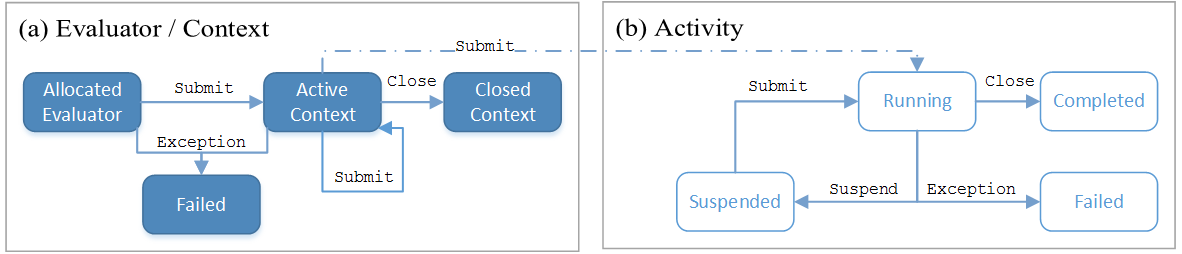
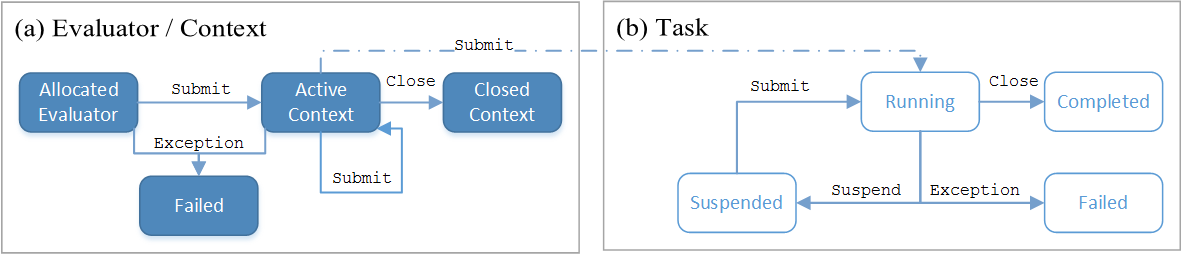
[REEF-444] Replace "Activity" with "Task" on http://reef.incubator.apache.org/introduction.html
This addressed the issue by
  * Updating images from https://cwiki.apache.org/confluence/display/REEF/Website+Artifacts
  * Replacing text occurrences

JIRA:
  [REEF-444](https://issues.apache.org/jira/browse/REEF-444)

Pull Request:
  This closes #361

diff --git a/website/src/site/markdown/introduction.md b/website/src/site/markdown/introduction.md
@@ -40,7 +40,7 @@ Below, we describe the client facing interfaces to these components. The core RE
 
 <br></br>
 
-The above figure presents the REEF components in terms of a running application, which is written in terms of a `Driver` and task-specific `Task` modules. The application code is packaged and submitted to a REEF client API, which in turn submits a REEF-AM configuration to YARN. The REEF-AM contains a runtime for launching the `Driver` and client libraries for requesting Evaluators and launching `Activities`. When a request for `Evaluators` is made, the REEF-AM negotiates containers with the YARN-RM and launches an `Evaluator` runtime on the YARN-NM that hosts the allocated container. In turn, the `Driver` is given an `Evaluator` object reference, which it uses to submit an `Task`. The `Driver` is also given a `Task` object reference, which it may use to send messages to the `Task` running in the `Evaluator`. The REEF layer implements these communication channels and encodes the computational life-cycle as state transitions, which are surfaced to the `Driver` in the form of Rx messages.
+The above figure presents the REEF components in terms of a running application, which is written in terms of a `Driver` and task-specific `Task` modules. The application code is packaged and submitted to a REEF client API, which in turn submits a REEF-AM configuration to YARN. The REEF-AM contains a runtime for launching the `Driver` and client libraries for requesting `Evaluators` and launching `Tasks`. When a request for `Evaluators` is made, the REEF-AM negotiates containers with the YARN-RM and launches an `Evaluator` runtime on the YARN-NM that hosts the allocated container. In turn, the `Driver` is given an `Evaluator` object reference, which it uses to submit an `Task`. The `Driver` is also given a `Task` object reference, which it may use to send messages to the `Task` running in the `Evaluator`. The REEF layer implements these communication channels and encodes the computational life-cycle as state transitions, which are surfaced to the `Driver` in the form of Rx messages.
 
 ###Computational Life-Cycle
 
@@ -50,14 +50,14 @@ The above figure presents the REEF components in terms of a running application,
       <img src="states-horizontal.png"></img>
 </div>
 
-*States of `Evaluator`, `Contexts`, and `Activities`*
+*States of `Evaluator`, `Contexts`, and `Tasks`*
 
 <br></br>
 
-The Figure above describes the state transitions for (a) `Evaluator` and `Context` and (b) `Task` components. Each state transition is associated with an object reference that is surfaced to the `Driver` in an Rx-style interface. For instance, when the YARN-RM notifies the REEF-AM of an allocated container, the `Driver` is given an `AllocatedEvaluator` object; containing methods for adding configurations (i.e., for data services, see below) and file resources, and submit methods that bootstraps the `Evaluator` runtime on the YARN-NM. When an `Evaluator` bootstrap successfully completes, the `Driver` is given an `ActiveContext` object, which can be used to launch `Activities` or to initiate a close, which triggers a shutdown event at the `Evaluator` runtime and a subsequent container release at the YARN-RM. If at any point a failure occurs, the `Driver` is passed a `FailedEvaluator` object; containing an exception trace when possible.
+The Figure above describes the state transitions for (a) `Evaluator` and `Context` and (b) `Task` components. Each state transition is associated with an object reference that is surfaced to the `Driver` in an Rx-style interface. For instance, when the YARN-RM notifies the REEF-AM of an allocated container, the `Driver` is given an `AllocatedEvaluator` object; containing methods for adding configurations (i.e., for data services, see below) and file resources, and submit methods that bootstraps the `Evaluator` runtime on the YARN-NM. When an `Evaluator` bootstrap successfully completes, the `Driver` is given an `ActiveContext` object, which can be used to launch `Tasks` or to initiate a close, which triggers a shutdown event at the `Evaluator` runtime and a subsequent container release at the YARN-RM. If at any point a failure occurs, the `Driver` is passed a `FailedEvaluator` object; containing an exception trace when possible.
 
-Recall that the `Driver` launches a `Task` on a submit method call from the `ActiveContext` reference. This state transition is denoted in the Figure above by the edge labeled submit; spanning the two state machines. The REEF-AM passes a `RunningActivity` object to the `Driver` after receiving confirmation of a successful `Task` start or resume. The `Driver` may use the `RunningActivity` reference to close or suspend the execution; triggering a `CompletedActivity` or `SuspendedActivity` object reference to the `Driver`. The `SuspendedActivity` object contains a memento used to resume the execution on some (possibly alternative) `ActiveContext`. Exceptions during the `Task` execution are surfaced to the `Driver` in the form of a `FailedActivity`, which contains the actual exception object.
+Recall that the `Driver` launches a `Task` on a submit method call from the `ActiveContext` reference. This state transition is denoted in the Figure above by the edge labeled submit; spanning the two state machines. The REEF-AM passes a `RunningTask` object to the `Driver` after receiving confirmation of a successful `Task` start or resume. The `Driver` may use the `RunningTask` reference to close or suspend the execution; triggering a `CompletedTask` or `SuspendedTask` object reference to the `Driver`. The `SuspendedTask` object contains a memento used to resume the execution on some (possibly alternative) `ActiveContext`. Exceptions during the `Task` execution are surfaced to the `Driver` in the form of a `FailedTask`, which contains the actual exception object.
 
 ###Task Component
 
-A `Task` encapsulates the task work of a job. The client interface contains a single synchronous call method that takes an optional memento argument and returns a byte array, which will be packaged with the `CompletedActivity` object surfaced to the `Driver`. An exception may be thrown at any point during the call method; returning control back to the `Evaluator`, which packages the exception and sends it to the `Driver` where it is surfaced as a `FailedActivity`. The `Evaluator` periodically performs a heartbeat with the REEF-AM to convey its status information. A `Task` can optionally implement a method interface that, when called, returns a (bounded) byte array, which the `Evaluator` includes in its heartbeat to the REEF-AM and surfaced to the `Driver`.
+A `Task` encapsulates the task work of a job. The client interface contains a single synchronous call method that takes an optional memento argument and returns a byte array, which will be packaged with the `CompletedTask` object surfaced to the `Driver`. An exception may be thrown at any point during the call method; returning control back to the `Evaluator`, which packages the exception and sends it to the `Driver` where it is surfaced as a `FailedTask`. The `Evaluator` periodically performs a heartbeat with the REEF-AM to convey its status information. A `Task` can optionally implement a method interface that, when called, returns a (bounded) byte array, which the `Evaluator` includes in its heartbeat to the REEF-AM and surfaced to the `Driver`.
